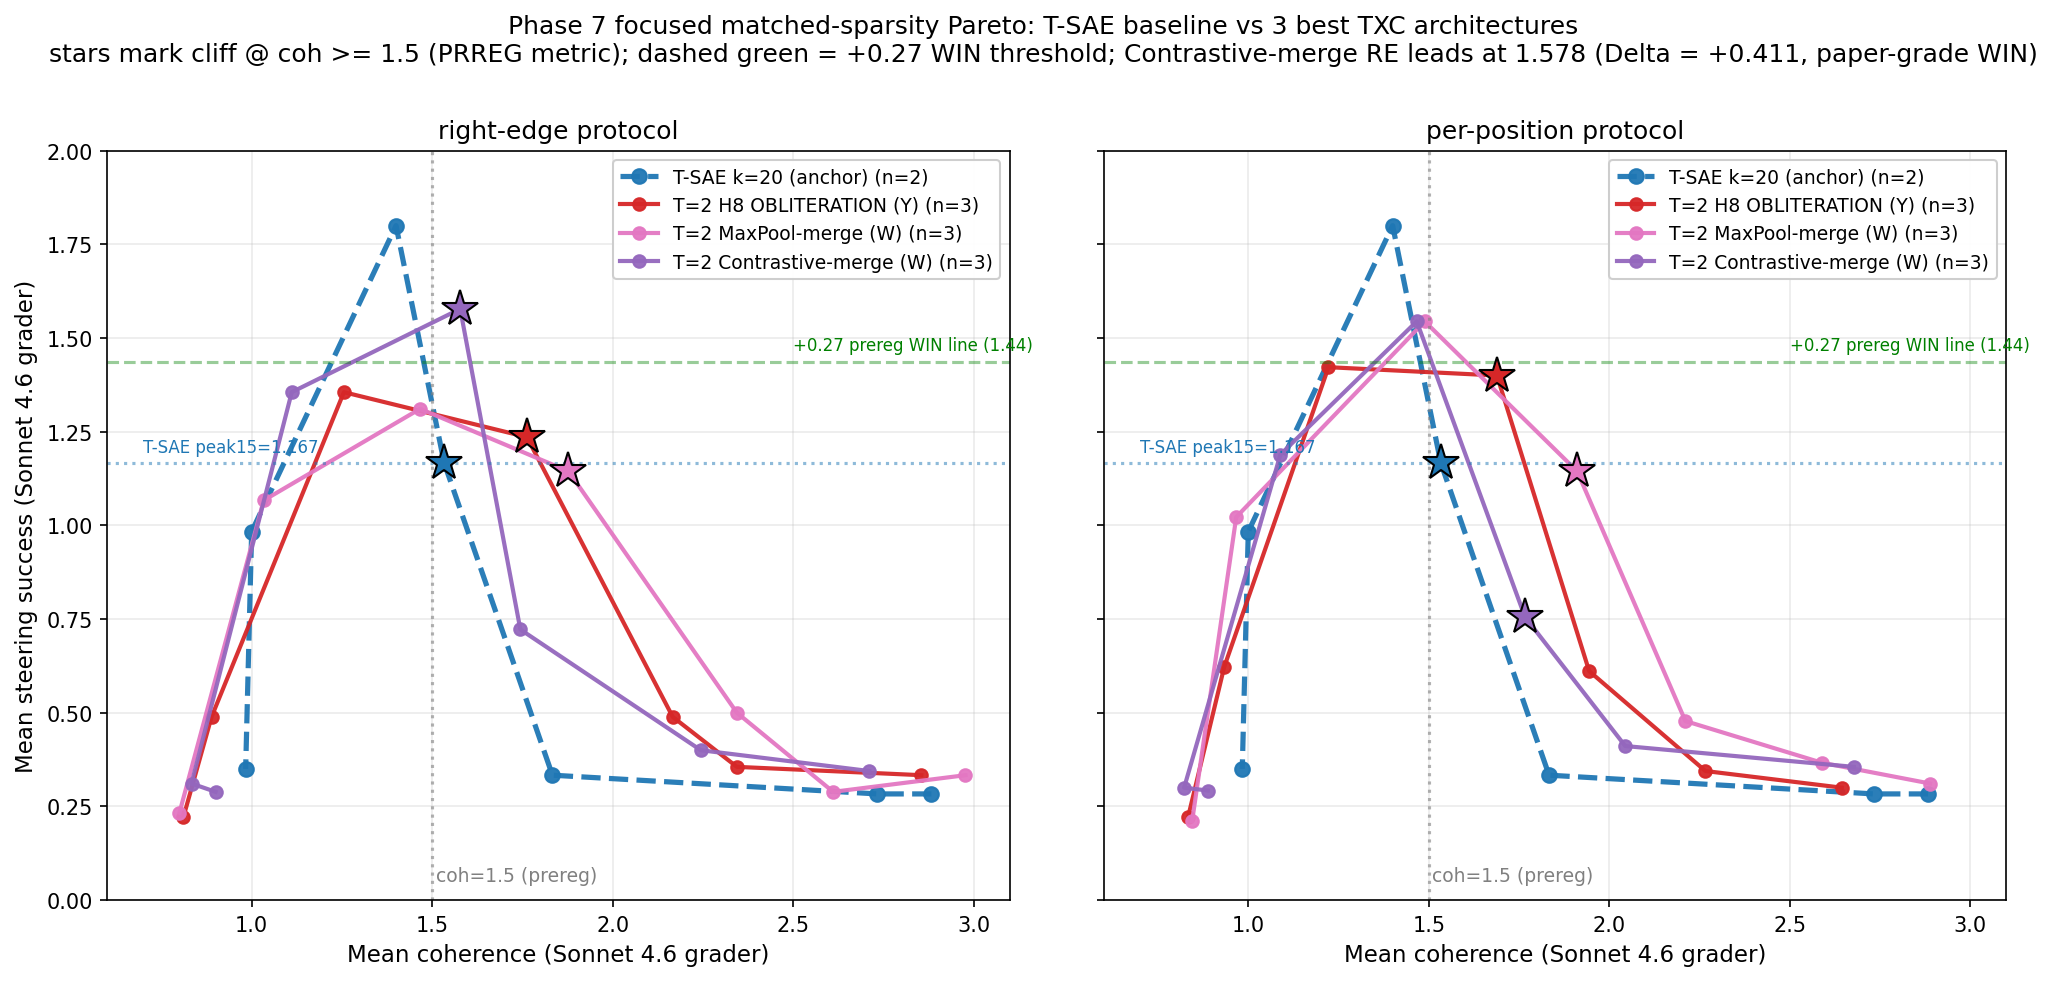
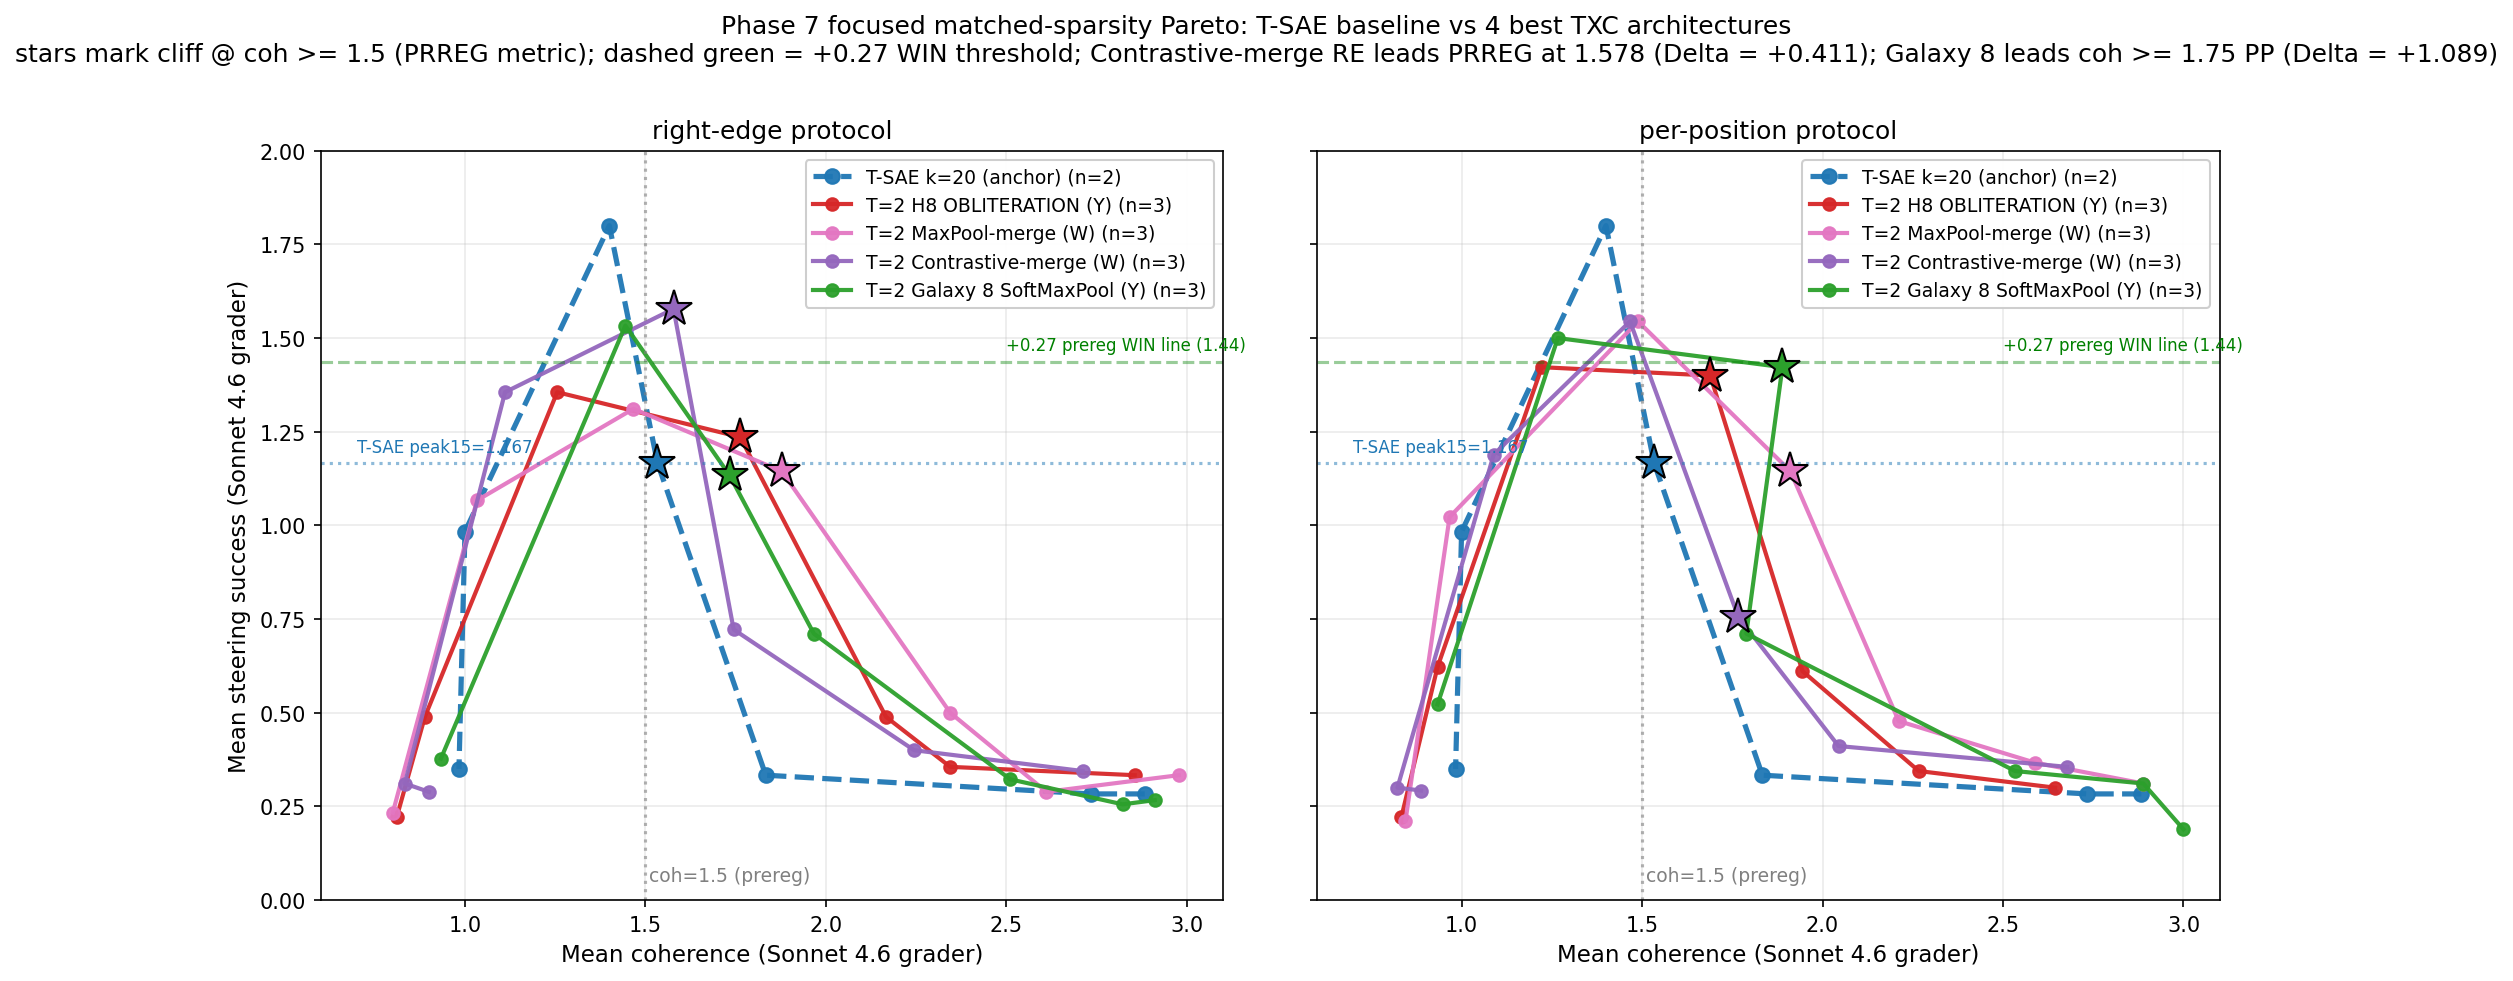
[Agent W] Add Y's Galaxy 8 (TXCSoftMaxPool) to focused Pareto plot
Y's Galaxy 8 trained yesterday is the new biggest TXC win at coh ≥ 1.75
(PP 3sd Δ=+1.089). Adds it as the 4th TXC line (after OBLIT, MaxPool,
Contrastive) in the focused Pareto.

Updated cliff15 rankings:
- Contrast RE n=3:    1.578 (Δ=+0.411 PRREG WIN ⭐⭐⭐)
- Galaxy 8 PP n=3:    1.422 (Δ=+0.255 — TIE at PRREG, but biggest at coh ≥ 1.75)
- OBLIT PP n=3:       1.400 (Δ=+0.233)
- OBLIT RE n=3:       1.236 (Δ=+0.069)
- T-SAE anchor:       1.167

Galaxy 8 (green) visible in per-position panel — peaks ~1.5 at coh ~1.7,
the dominant cell at the Y's GIGABRAIN reframe metric.

diff --git a/experiments/phase7_unification/case_studies/steering/plot_focused_pareto.py b/experiments/phase7_unification/case_studies/steering/plot_focused_pareto.py
@@ -58,6 +58,15 @@ INVENTORY = [
         ("steering_paper_window_perposition_seed1",   "per-position", 1),
         ("steering_paper_window_perposition_seed2",   "per-position", 2),
     ]),
+    # Galaxy 8 (TXCSoftMaxPool) — Y's new BEST cell (Δ=+1.089 PP @ coh ≥ 1.75)
+    ("txc_softmaxpool_t2_kpos20", "T=2 Galaxy 8 SoftMaxPool (Y)", "#2ca02c", [
+        ("steering_paper_normalised",                 "right-edge",   42),
+        ("steering_paper_normalised_seed1",           "right-edge",   1),
+        ("steering_paper_normalised_seed2",           "right-edge",   2),
+        ("steering_paper_window_perposition",         "per-position", 42),
+        ("steering_paper_window_perposition_seed1",   "per-position", 1),
+        ("steering_paper_window_perposition_seed2",   "per-position", 2),
+    ]),
 ]
 
 
@@ -176,9 +185,9 @@ def main():
         ax.legend(loc="upper right", fontsize=9, framealpha=0.95)
 
     fig.suptitle(
-        "Phase 7 focused matched-sparsity Pareto: T-SAE baseline vs 3 best TXC architectures\n"
+        "Phase 7 focused matched-sparsity Pareto: T-SAE baseline vs 4 best TXC architectures\n"
         "stars mark cliff @ coh >= 1.5 (PRREG metric); dashed green = +0.27 WIN threshold; "
-        "Contrastive-merge RE leads at 1.578 (Delta = +0.411, paper-grade WIN)",
+        "Contrastive-merge RE leads PRREG at 1.578 (Delta = +0.411); Galaxy 8 leads coh >= 1.75 PP (Delta = +1.089)",
         fontsize=12, y=1.00,
     )
     fig.tight_layout()
